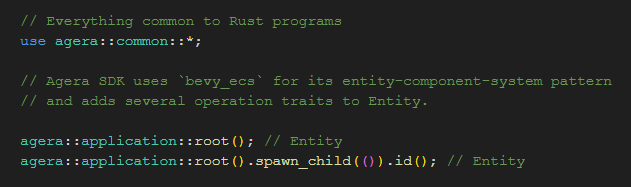
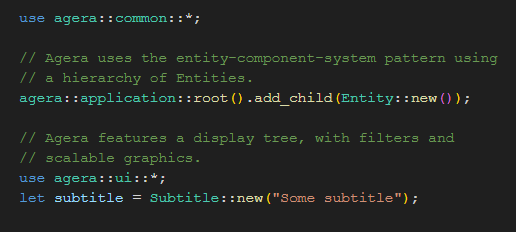
_

diff --git a/crates/agera/src/ecs.rs b/crates/agera/src/ecs.rs
@@ -1,89 +1,7 @@
 /*!
-The entity-component-system pattern used by Agera applications.
-It re-exports functionality from the [`bevy_ecs` crate](https://docs.rs/bevy_ecs/0.11)
-and adds entity hierarchy and operations to Entities.
-
-# Full documentation
-
-Refer to the [`bevy_ecs` crate](https://docs.rs/bevy_ecs/0.11) for full documentation on the entity-component-system
-pattern API.
-
-# Entity operations
-
-Importing `agera::ecs::common` into scope brings common Entity operations
-as methods, which are not normally methods in the `bevy_ecs` crate. For example, importing this module
-brings `.get::<Component>()` into scope.
-
-# Entity hierarchy
-
-Entities are created directly when adding a child entity to an existing entity. For example,
-the following adds an empty `Entity` to the application's root entity:
-
-```
-use agera::common::*;
-let child = agera::application::root().spawn_child(());
-```
+The entity-component-system pattern used by 
+Agera applications.
 */
 
-pub use ::bevy_ecs::{
-    archetype,
-    bundle,
-    change_detection,
-    component,
-    entity,
-    event,
-    query,
-    reflect,
-    removal_detection,
-    schedule,
-    storage,
-    system,
-    world,
-};
-
-/// Commonly used entity-component-system items.
-pub mod common {
-    pub use super::{
-        bundle::Bundle,
-        change_detection::{
-            Mut,
-            Ref,
-            MutUntyped,
-        },
-        component::{Component, ComponentId},
-        entity::Entity,
-        entity_operations::{
-            Contains as agera_Entity_Contains,
-            ContainsId as agera_Entity_ContainsId,
-            ContainsTypeId as agera_Entity_ContainsTypeId,
-            Despawn as agera_Entity_Despawn,
-            Get as agera_Entity_Get,
-            GetRef as agera_Entity_GetRef,
-            GetById as agera_Entity_GetById,
-            GetMutById as agera_Entity_GetMutById,
-            GetMut as agera_Entity_GetMut,
-            Location as agera_Entity_Location,
-            Insert as agera_Entity_Insert,
-            Remove as agera_Entity_Remove,
-        },
-        event::{Event, EventReader, EventWriter},
-        hierarchy::{
-            Children as agera_Entity_Children,
-            DespawnChildren as agera_Entity_DespawnChildren,
-            Parent as agera_Entity_Parent,
-            SpawnChild as agera_Entity_SpawnChild,
-        },
-        path_operations::{
-            Name as agera_Entity_Name,
-            SetName as agera_Entity_SetName,
-            ResolvePath as agera_Entity_ResolvePath,
-        },
-        query::{Added, Changed, With, Without},
-        system::Query,
-        world::World,
-    };
-}
-
-pub mod hierarchy;
-pub mod entity_operations;
-pub mod path_operations;
+mod entity;
+pub use entity::*;

diff --git a/crates/agera/src/_ecs/ecs.rs b/crates/agera/src/_ecs/ecs.rs
@@ -1,0 +1,89 @@
+/*!
+The entity-component-system pattern used by Agera applications.
+It re-exports functionality from the [`bevy_ecs` crate](https://docs.rs/bevy_ecs/0.11)
+and adds entity hierarchy and operations to Entities.
+
+# Full documentation
+
+Refer to the [`bevy_ecs` crate](https://docs.rs/bevy_ecs/0.11) for full documentation on the entity-component-system
+pattern API.
+
+# Entity operations
+
+Importing `agera::ecs::common` into scope brings common Entity operations
+as methods, which are not normally methods in the `bevy_ecs` crate. For example, importing this module
+brings `.get::<Component>()` into scope.
+
+# Entity hierarchy
+
+Entities are created directly when adding a child entity to an existing entity. For example,
+the following adds an empty `Entity` to the application's root entity:
+
+```
+use agera::common::*;
+let child = agera::application::root().spawn_child(());
+```
+*/
+
+pub use ::bevy_ecs::{
+    archetype,
+    bundle,
+    change_detection,
+    component,
+    entity,
+    event,
+    query,
+    reflect,
+    removal_detection,
+    schedule,
+    storage,
+    system,
+    world,
+};
+
+/// Commonly used entity-component-system items.
+pub mod common {
+    pub use super::{
+        bundle::Bundle,
+        change_detection::{
+            Mut,
+            Ref,
+            MutUntyped,
+        },
+        component::{Component, ComponentId},
+        entity::Entity,
+        entity_operations::{
+            Contains as agera_Entity_Contains,
+            ContainsId as agera_Entity_ContainsId,
+            ContainsTypeId as agera_Entity_ContainsTypeId,
+            Despawn as agera_Entity_Despawn,
+            Get as agera_Entity_Get,
+            GetRef as agera_Entity_GetRef,
+            GetById as agera_Entity_GetById,
+            GetMutById as agera_Entity_GetMutById,
+            GetMut as agera_Entity_GetMut,
+            Location as agera_Entity_Location,
+            Insert as agera_Entity_Insert,
+            Remove as agera_Entity_Remove,
+        },
+        event::{Event, EventReader, EventWriter},
+        hierarchy::{
+            Children as agera_Entity_Children,
+            DespawnChildren as agera_Entity_DespawnChildren,
+            Parent as agera_Entity_Parent,
+            SpawnChild as agera_Entity_SpawnChild,
+        },
+        path_operations::{
+            Name as agera_Entity_Name,
+            SetName as agera_Entity_SetName,
+            ResolvePath as agera_Entity_ResolvePath,
+        },
+        query::{Added, Changed, With, Without},
+        system::Query,
+        world::World,
+    };
+}
+
+pub mod hierarchy;
+pub mod entity_operations;
+pub mod path_operations;

diff --git a/crates/agera/src/ecs/entity.rs b/crates/agera/src/ecs/entity.rs
@@ -1,0 +1,18 @@
+use crate::common::*;
+use std::{
+    any::Any,
+    sync::Arc,
+};
+
+type Component = Box<dyn Any + Send + Sync>;
+
+/// Represents an entity in the entity-component-system as a
+/// reference-counted type.
+pub struct Entity {
+    inner: Arc<EntityInner>,
+}
+
+pub struct EntityInner {
+    components: Vec<Component>,
+    children: Vec<Entity>,
+}

diff --git a/docs/progress-track.md b/docs/progress-track.md
@@ -130,3 +130,29 @@ File API.
 ## agera::display
 
 - Refer to https://wgpu.rs
+
+How you work with display objects:
+
+```rust
+use agera::display::*;
+
+// `DisplayObject` is an entity with additional methods
+let object: DisplayObject = DisplayObject::new();
+object.has::<TComponent>();
+object.set_alpha(0);
+object.add_child(&child);
+
+let entity: Entity = object.into();;
+
+// Entity back into a DisplayObject
+let object = DisplayObject::try_from(entity.as_entity());
+```
+
+Types for display objects are built with the `DisplayObject` derive macro, which provides several methods specific to `DisplayObject`:
+
+```rust
+use agera::display::*;
+
+#[derive(DisplayObject)]
+struct CustomDisplayObject {}
+```
